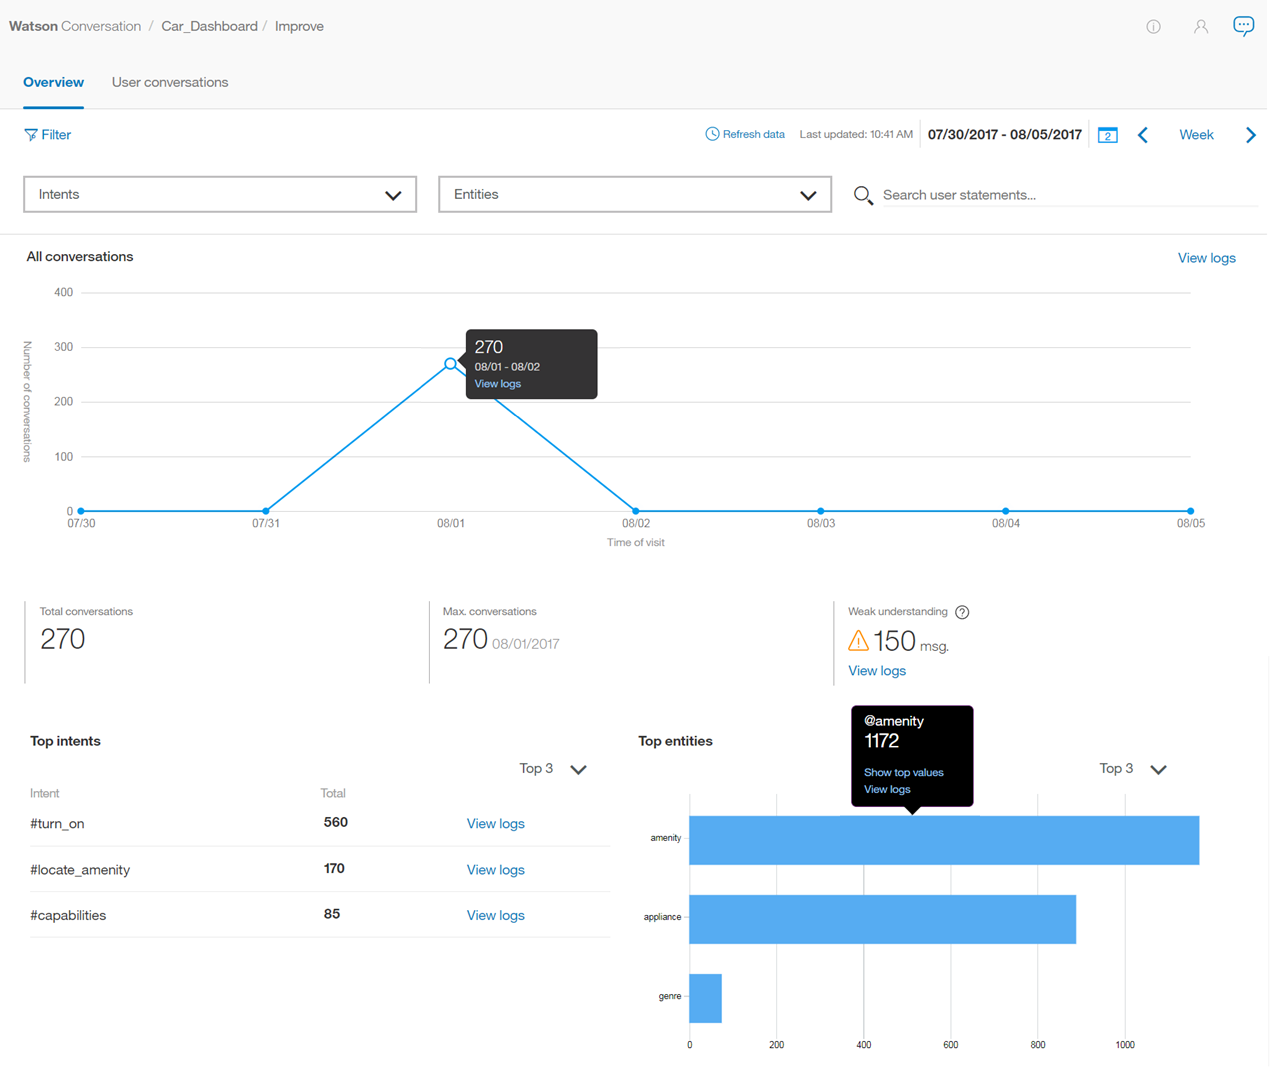
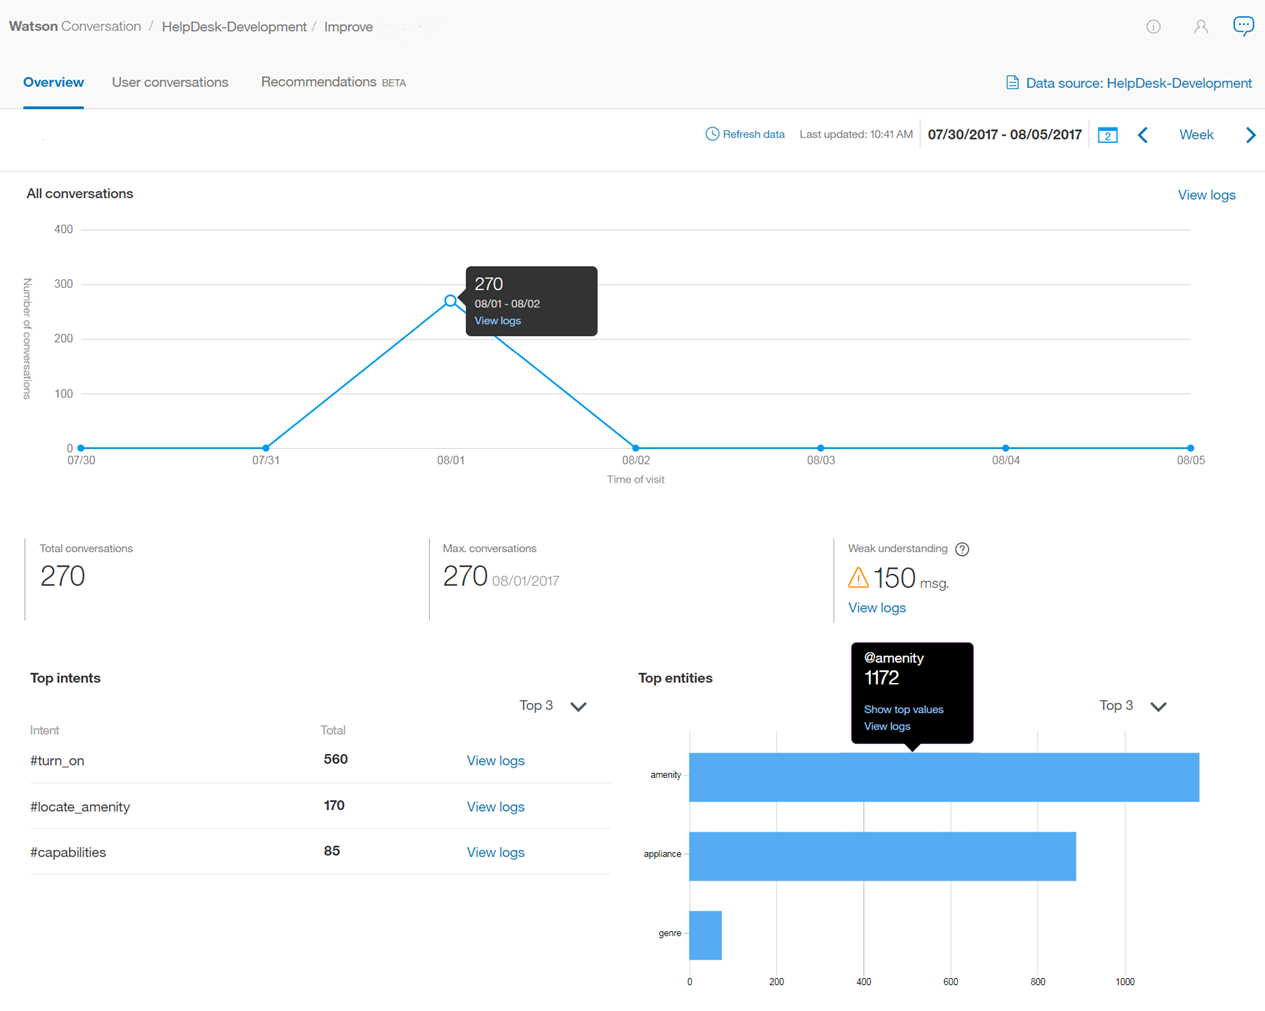
Finalized Deployment ID files

diff --git a/logs_convo.md b/logs_convo.md
@@ -2,7 +2,7 @@
 
 copyright:
   years: 2015, 2017
-lastupdated: "2017-11-14"
+lastupdated: "2017-11-28"
 
 ---
 
@@ -20,30 +20,51 @@ lastupdated: "2017-11-14"
 # Working with conversations
 {: #logs_convo}
 
-To open a list of interactions between users and your bot, select **User conversations** in the navigation bar. If **User conversations** is not visible, use the ![Menu](images/Menu_16.png) menu to open the page.
+To open a list of interactions between users and your workspace, select **User conversations** in the navigation bar. If **User conversations** is not visible, use the ![Menu](images/Menu_16.png) menu to open the page.
 {: shortdesc}
 
-When you open the **User conversations** page, the default view lists results for the last day, with the newest results first. The top intent (#intent) and any recognized entity (@entity) values used in the message, and the message text are available. For intents that are not recognized, the value shown is *Irrelevant*. If an entity is not recognized, or has not been provided, the value shown is *No entities found*.
+When you open the **User conversations** page, the default view lists results for the last day, with the newest results first. The top intent (#intent) and any recognized entity (@entity) values used in a message, and the message text are available. For intents that are not recognized, the value shown is *Irrelevant*. If an entity is not recognized, or has not been provided, the value shown is *No entities found*.
 ![Logs default page](images/logs_page1.png)
+
+It is important to note that the **User conversations** page displays the total number of *utterances* between users and your workspace. An utterance is a single message the user sends to the workspace. Each conversation may be made up of multiple utterances. Thus, the number of results on this **User conversations** page is different than the number of conversations shown on the [Overview](logs_oview.html) page.
 
 ## Log limits
 {: #log-limits}
 
-The length of time for which chat messages are retained depends on your {{site.data.keyword.conversationshort}} service plan:
+The length of time for which messages are retained depends on your {{site.data.keyword.conversationshort}} service plan:
 
-  Service plan                         | Chat log retention
+  Service plan                         | Chat message retention
   ------------------------------------ | ------------------------------------
   Premium                              | Last 90 days
   Standard                             | Last 30 days
   Free                                 | Last 7 days
 
-## Filtering utterances
+## Selecting a data source
 
-It is important to note that the **User conversations** page displays the total number of *utterances* between users and your bot. An utterance is a single message the user sends to the bot. Each conversation maybe made up of multiple utterances. Thus, the number of results on this **User conversations** page is different than the number of conversations shown on the [Overview](logs_oview.html) page.
+By default, the **User conversations** page shows utterance data for the current workspace. However, there may be times when it is useful to improve a workspace with utterances that were sent to other workspaces within your instance. For example, you may have multiple versions of production workspaces and development workspaces; you can use the same utterance data to improve any of these workspaces.
+
+When switching to another data source, the {{site.data.keyword.conversationshort}} service checks utterances for an element called `Deployment ID`. Deployment IDs are unique identifiers in the {{site.data.keyword.conversationshort}} service API that you add to your message API calls. For information about adding Deployment IDs to message calls, see [Improving across workspaces](logs.html#deploy_id).
+
+To populate the Improve section using utterances with a given Deployment ID:
+
+1.  Select **Data source:**
+    ![Data source link](images/data_source_1.png)
+1.  Select a deployment
+    ![Data source link](images/data_source_2.png)
+1.  Click **View Data**
+
+The selected data source now displays.
+
+**Note:** While **Data source:** now shows the source of the utterances you are using to improve this workspace, the top of the page still shows the workspace you are applying changes to.
+
+In this example, the Improve page is populated with utterances that had the Deployment ID `HelpDesk-Production` included in their message API calls, but if the utterance *test input* is added to the intent "#No" by clicking **Save** then *test input* would be added as an example of "#No" in the workspace `HelpDesk-Development`.
+![Data source link](images/data_source_3.png)
+
+## Filtering utterances
 
 You can filter utterances by *Search user statements*, *Intents*, *Entities*, and *Last* n *days*:
 
-*Search user statements* - Type a word in the search bar. This searches the users' inputs, but not your bot's replies.
+*Search user statements* - Type a word in the search bar. This searches the users' inputs, but not your workspace's replies.
 
 *Intents* - Select the drop-down menu and type an intent in the input field, or choose from the populated list. You can select more than one intent, which filters the results using any of the selected intents, including *Irrelevant*.
 
@@ -53,10 +74,10 @@ You can filter utterances by *Search user statements*, *Intents*, *Entities*, an
 
 ![Entities drop-down menu](images/entities_filter.png)
 
-Utterances may take some time to update. Allow at least 30 minutes after a user's interaction with your bot before attempting to filter for that content.
+Utterances may take some time to update. Allow at least 30 minutes after a user's interaction with your workspace before attempting to filter for that content.
 
 ## Viewing an individual utterance
-You can expand each utterance entry to see what the user said in the whole conversation, and how your bot answered. To do this, select **Open conversation**. You are automatically taken to the utterance you selected within that conversation.
+You can expand each utterance entry to see what the user said in the whole conversation, and how your workspace answered. To do this, select **Open conversation**. You are automatically taken to the utterance you selected within that conversation.
 
 ![Open conversation panel](images/open_convo.png)
 
@@ -75,7 +96,8 @@ You can then choose to show the classification(s) for the utterance you selected
 1.  Select **Save**.
 
     ![Save intent](images/save_intent.png)
-  **Note**: The {{site.data.keyword.conversationshort}} service supports adding user input as an example to an intent *as-is*. User input cannot be modified to use an `@Entity` refererence. For more information, see [Directly referencing an @Entity as an intent example](intents.html#entity-as-example).
+
+    **Note**: The {{site.data.keyword.conversationshort}} service supports adding user input as an example to an intent *as-is*. User input cannot be modified to use an `@Entity` refererence. For more information, see [Directly referencing an @Entity as an intent example](intents.html#entity-as-example).
 
 ## Adding an entity value or synonym
 

diff --git a/logs.md b/logs.md
@@ -2,7 +2,7 @@
 
 copyright:
   years: 2015, 2017
-lastupdated: "2017-11-20"
+lastupdated: "2017-11-28"
 
 ---
 
@@ -19,13 +19,41 @@ lastupdated: "2017-11-20"
 
 # About the Improve component
 
-The Improve component of {{site.data.keyword.conversationshort}} provides a history of conversations with users of your bot. You can use this history to improve your bot's understanding of users' inputs.
+The Improve component of {{site.data.keyword.conversationshort}} provides a history of interactions with users of your workspace. You can use this history to improve your workspace's understanding of users' inputs.
 {: shortdesc}
-
-While you develop your workspace, you use the *Try it out* pane to verify that your bot recognizes the correct intents and entities in test inputs, and to make corrections as needed. In the **Improve** panel, you can view information about actual conversations with your users and make similar corrections to improve the accuracy with which intents and entities are recognized by your bot.
 
 Sections of the **Improve** panel:
 
-- [Overview](logs_oview.html): A summary of interactions of users with your bot.
-- [User conversations](logs_convo.html): A list of chat messages. You can update intents and entities while viewing a conversation.
-- [Recommendations](logs_recommend.html): Ways to improve your system. Available only to Premium users.
+* [Overview](logs_oview.html): A summary of interactions of users with a workspace.
+* [User conversations](logs_convo.html): A list of user utterances. You can update intents and entities while viewing a user utterance.
+* [Recommendations](logs_recommend.html): Ways to improve your system. Available only to Premium users.
+
+## Improving across workspaces
+To understand how to use utterance data to make improvements across workspaces, it is helpful to review the following definitions associated with the {{site.data.keyword.conversationshort}} service:
+
+* ***Instance:*** Your deployment of {{site.data.keyword.conversationshort}}, accessible with unique credentials. A {{site.data.keyword.conversationshort}} instance may be made up of multiple workspaces
+* ***Workspace:*** A workspace is one model of your {{site.data.keyword.conversationshort}} content; often, this can equate to a bot
+* ***Workspace ID:*** The unique identifier of a workspace, that allows you to call your content
+* ***Deployment ID:*** Deployment IDs are unique labels that are passed with user utterances to help identify the deployment environment that the utterances come from
+* ***Utterance:*** An utterance is a single message the user sends to the workspace
+
+Creating a workspace is a very iterative process. While you develop your workspace, you use the *Try it out* panel to verify that your workspace recognizes the correct intents and entities in test inputs, and to make corrections as needed.
+
+In the **Improve** panel, you can view information about actual interactions with your users, and make similar corrections to improve the accuracy with which intents and entities are recognized by your workspace. It is difficult to know exactly *how* your users will ask questions, or what random utterances they may make, so it is important to frequently visit the **Improve** panel, in order to improve your workspaces.
+
+For a {{site.data.keyword.conversationshort}} instance that includes mutiple workspaces, there may be times when it is useful to use utterance data from one workspace to improve another workspace within that same instance.
+
+As an example, say you have a {{site.data.keyword.conversationshort}} instance named "HelpDesk". You may have both a Production workspace and a Development workspace in your HelpDesk instance. When working in the Development workspace, you can filter utterances based on the `Deployment ID` for the Production workspace, so that you are using Production workspace utterances to improve your Development workspace. Any edits you then make within the Development workspace will only affect the Development workspace, even if you’re using Production workspace utterances.
+
+To specify the deployment ID for an utterance sent using the `/message` API, include the deployment property inside the metadata object in your [context ![External link icon](../../icons/launch-glyph.svg "External link icon")](https://www.ibm.com/watson/developercloud/conversation/api/v1/#send_message){: new_window}, as in this example:
+{: #deploy_id}
+
+```
+"context" : {
+  "username" : "jane_doe@myemail.com",
+  "member_type" : "gold",
+  "metadata" : {
+       "deployment": "HelpDesk-Production"
+  }
+}
+```

diff --git a/logs_oview.md b/logs_oview.md
@@ -2,7 +2,7 @@
 
 copyright:
   years: 2015, 2017
-lastupdated: "2017-11-20"
+lastupdated: "2017-11-28"
 
 ---
 
@@ -19,10 +19,10 @@ lastupdated: "2017-11-20"
 
 # The Overview page
 
-The Overview page of the **Improve** panel provides a summary of interactions between users and your bot.  You can view the amount of traffic for a given time period, as well as the intents and entities that were recognized most often in user conversations.
+The Overview page of the **Improve** panel provides a summary of conversations between users and your workspace. You can view the amount of traffic for a given time period, as well as the intents and entities that were recognized most often in user conversations.
 {: shortdesc}
 
-The statistics that are displayed on the Overview page cover a longer period of time than the period for which logs of user conversations are retained.  These statistics represent external traffic - users or API calls - that has interacted with your bot; they do not include interactions from the *Try it out* pane in the tool.
+The statistics that are displayed on the Overview page cover a longer period of time than the period for which logs of user conversations are retained. These statistics represent external traffic - users or API calls - that has interacted with your workspace; they do not include interactions from the *Try it out* panel in the tool.
 
 You can use the Overview page to answer questions like:
 
@@ -33,11 +33,10 @@ You can use the Overview page to answer questions like:
 
 To open the Overview page, select **Overview** in the navigation bar. If **Overview** is not visible, use the ![Menu](images/Menu_16.png) menu to open the page.
 
-![Overview page](images/oview.png)
+  ![Overview page](images/oview.png)
 
 The top part of the page includes the following controls:
 
-* *Filter* - Toggles the filter option on or off. When toggled on, you will see drop-down selectors for **Intents** and **Entities**
 * *Refresh data* - Allows you to refresh the Overview page statistics immediately. The Overview page shows when the data that it displays was last updated. You can select **Refresh data** if you think that newer data might be available.
 * Time period control - Use this control to choose the period for which data is displayed.  This control affects all data shown on the page: not just the number of conversations displayed in the graph, but also the statistics displayed along with the graph, and the lists of top intents and entities.
 
@@ -49,11 +48,11 @@ You can choose whether to view data for a single day, a week, a month, a quarter
 
 A graph displays the total number of conversations for the date range selected.
 
-**Note:** A 'conversation' is considered to be any interaction with the bot, so if there are conversations where the bot said "Hi, how can I help you?", and then the user closed their browser, that conversation is included in the total conversation count.
+**Note:** A 'conversation' is considered to be any interaction with the workspace, so if there are conversations where the service starts by saying "Hi, how can I help you?", and then the user closes their browser without responding, that conversation is included in the total conversation count.
 
 You can select **View logs** to open the [User conversations](logs_convo.html) page, with the date range filtered to match the time period that you have selected for the Overview page. Depending on your plan and the date range that you selected, you might see no data. For example, the {{site.data.keyword.conversationshort}} [Standard service plan](logs_convo.html#log-limits) only retains chat logs for 30 days; if you choose a date range older than 30 days, you will see no data.
 
-**Note:** The [User conversations](logs_convo.html) page displays the total number of *utterances*. An utterance is a single message the user sends to the bot. Each conversation may be made up of multiple utterances. Thus, the number of results on the [User conversations](logs_convo.html) page is different than the number of conversations shown on this Overview page.
+**Note:** The [User conversations](logs_convo.html) page displays the total number of *utterances*. An utterance is a single message the user sends to the workspace. Each conversation may be made up of multiple utterances. Thus, the number of results on the [User conversations](logs_convo.html) page is different than the number of conversations shown on this Overview page.
 
 While viewing the graph, you can click on an individual data point to see the numeric value, as shown here:
 
